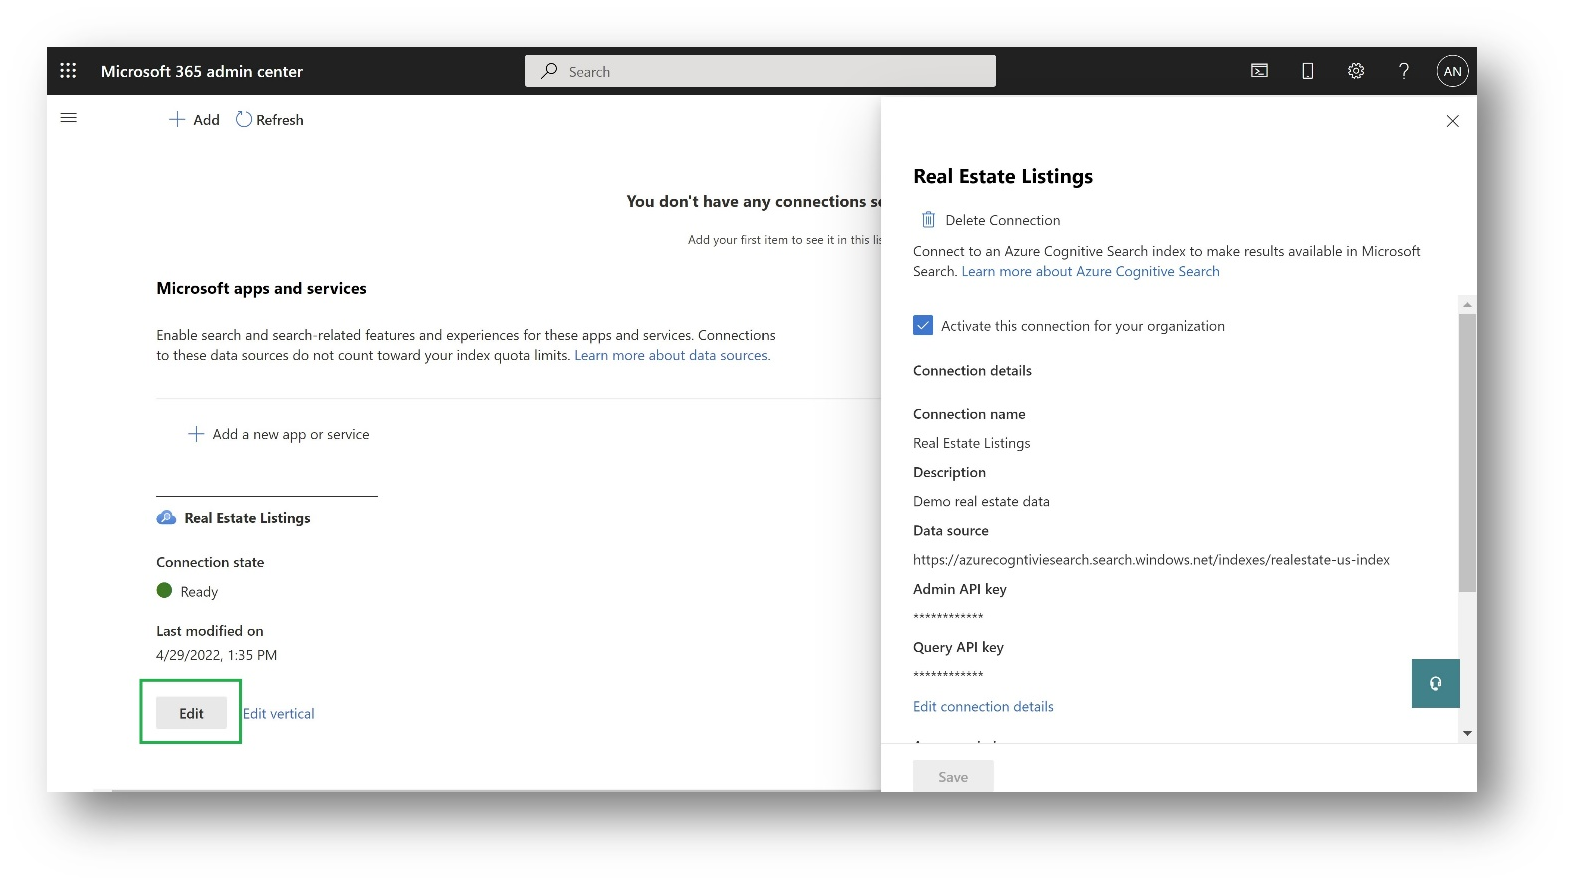
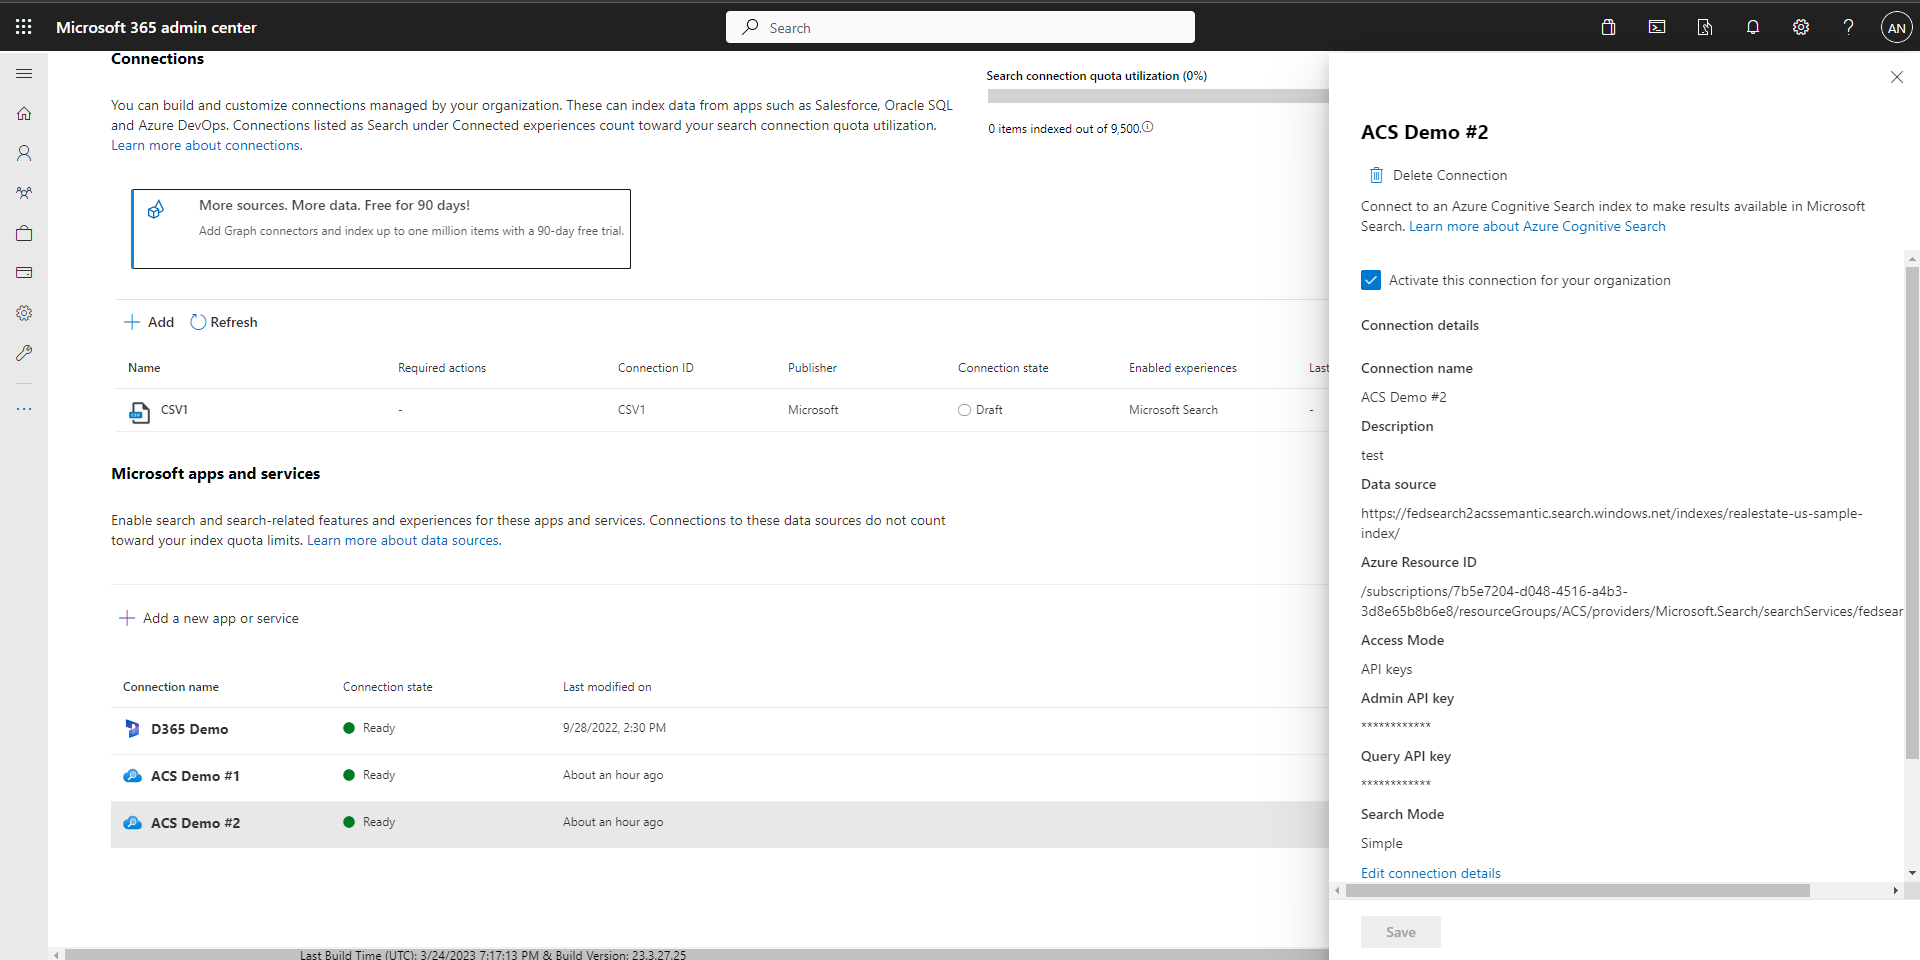
Initial commit - updating ACS federated search docs for V2 experience

diff --git a/MicrosoftSearch/manage-azure-cognitive-search.md b/MicrosoftSearch/manage-azure-cognitive-search.md
@@ -7,7 +7,7 @@ ms.audience: Admin
 ms.topic: article
 ms.service: mssearch
 ms.localizationpriority: medium
-ms.date: 06/03/2022
+ms.date: 03/27/2023
 
 description: "Manage how Azure Cognitive Search content appears in search results"
 ---
@@ -17,7 +17,7 @@ description: "Manage how Azure Cognitive Search content appears in search result
 
 * **Easy to use:** Users can easily and quickly find key information stored in Azure Cognitive Search (ACS), without needing to navigate to a new app or page.
 * **Easy to find:** ACS content is visible to users in Bing.com, Office.com, and SharePoint.
-* **Customizable permissions:** ACS results can be configured to appear for everyone in the organization or specific Azure AD access control lists.
+* **Customizable permissions:** ACS results can be configured to appear for everyone in the organization or refined to certain people using Azure Role-Based Access Control.
 * **Adaptable result layouts:** ACS results can be formatted with a default layout, based on your data’s schema, or can be customized using Modern Result Types.
 * **Quick setup:** Simple to configure and easy to maintain the search connection to an ACS index.
 * **Unified search experience:** To maintain a cohesive experience, ACS results are consistent across all search entry points. Wherever you search, you'll get the same results with the same look and feel.
@@ -38,33 +38,45 @@ Check out our Microsoft Build 2022 video for a demonstration.
 
 ## Setup
 
-1. In the [Microsoft 365 admin center](https://admin.microsoft.com), go to [Data sources](https://admin.microsoft.com/Adminportal/Home#/MicrosoftSearch/connectors).
-2. In the Microsoft apps and services section, select **Add a new app or service**. :::image type="content" alt-text="Data sources page with link to Add new app or service highlighted." source="media/azure-cognitive-search/acs-data-source.png" lightbox="media/azure-cognitive-search/acs-data-source.png":::
+1. Grant Reader permissions for the Bing app in the Azure Portal - this gives us permission to view the Azure Cognitive Search resource from Microsoft Search in Bing:
+    - Navigate to the [Azure Portal](https://portal.azure.com) and open your Azure Cognitive Search resource.
+    - Select **Access control (IAM) on the left sidebar**, then navigate to the **Role assignments** tab.
+    - Click **Add** in the top left corner, then **Add role assignment** from the dropdown.
+    - Choose the **Reader** role from the list, and click **Next**.
+    - On the following page, click on **Select members**, then in the search box which opens to the right, search for **Bing**.
+    - Click on **Bing** in the search results, and hit **Select**.
+    - Select **Review + assign**, then **Review + assign** again.
+2. In the [Microsoft 365 admin center](https://admin.microsoft.com), go to [Data sources](https://admin.microsoft.com/Adminportal/Home#/MicrosoftSearch/connectors). In the Microsoft apps and services section, select **Add a new app or service**. :::image type="content" alt-text="Data sources page with link to Add new app or service highlighted." source="media/azure-cognitive-search/acs-data-source.png" lightbox="media/azure-cognitive-search/acs-data-source.png":::
 3. Select **Azure Cognitive Search**, then **Next**.
-4. In the **Connection details** pane:
-
-    - Enter the connection name and description. The name will be used as the display name for the ACS vertical on Bing, Office.com, and SharePoint.
-    - In the Data source field, enter the URL for your ACS index, using the format `<your-service>.search.windows.net/indexes/<your-index>`. Replace `<your-service>` with the name of the search service resource, and `<your-index>` with the name of the index.
-    - Add your Admin and Query API keys. For information about finding or creating API keys, see [Find existing keys](/azure/search/search-security-api-keys#find-existing-keys).
-    - Select the authorization check box, then **Next**.
-
-5. On the **Search permissions** page, choose to enable the connection for everyone in your organization or restrict the results to certain Access Control Lists.
-6. In the **Add semantic property labels** pane:
-
+4. In the **Connection details** pane, enter the connection name and description. The name will be used as the display name for the ACS vertical on Bing, Office.com, and SharePoint.
+5. In the Data source field, enter the URL for your ACS index, using the format `<your-service>.search.windows.net/indexes/<your-index>`. Replace `<your-service>` with the name of the search service resource, and `<your-index>` with the name of the index.
+6. In the Azure resource ID field, add the Resource ID for your ACS index. This can be found in the Azure Portal with the following steps:
+    - Open your ACS resource in the [Azure Portal](https://portal.azure.com)
+    - Select the **Properties** tab, and copy the Id under the **Essentials** heading
+7. Choose whether you want to connect to your ACS index using API key authentication or Azure Role-Based Access control. **Note:** if you select API Keys, the connected index will be visible to all Microsoft Search users in your organization. For more information on Role-Based Access control, see: [RBAC Search Security](/azure/search/search-security-rbac).
+    - If you select API Key authentication, enter your Admin and Query API keys. For information about finding or creating API keys, see [Find existing keys](/azure/search/search-security-api-keys#find-existing-keys).
+8. Choose whether you want queries on your ACS content from Microsoft Search to use Semantic Search or Simple Search. If you want to use Semantic Seach, you will need to have it enabled for your ACS service. These queries will use your ACS semantic query quota and could incur additional costs through Azure Billing. For more details on Semantic Search, see [Semantic Search Overview](/azure/search/semantic-search-overview).
+9. Read and select the authorization check boxes, then test your setup with the **Test connection** button. Fix any errors, then select **Next**.
+10. In the **Add semantic property labels** pane:
     - If these labels are sufficient to display the results, select the source properties you’d like to display for each of the listed labels. The selected properties will be used to create a default Modern Result Type (MRT) for the results. You must select a property for the Title. The others are optional but recommended, since they make the results more informative.
     - If these labels aren't adequate to display your results, you can leave them blank and create a custom MRT later. For information about creating a custom MRT, see [Manage result types](/microsoftsearch/manage-result-types).
+11. Verify the information entered is correct and select **Finish**.
+12. When the connection has been created, you'll be redirected to the Data Sources page again. You should see your newly created connection with the status **Ready**. :::image type="content" alt-text="Azure Cognitive Search connection successfully created" source="media/azure-cognitive-search/acs-custom-vertical.png" lightbox="media/azure-cognitive-search/acs-custom-vertical.png":::
+13. You can create up to three ACS connections per tenant - repeat the above steps for additional connections you want to create. 
 
-7. Verify the information entered is correct and select **Finish**.
-1. When the connection has been created, you'll be redirected to the Data Sources page again. If you want to change the display name that appears on the ACS vertical, select **Edit vertical** below the newly created ACS connection. :::image type="content" alt-text="Azure Cognitive Search connection with link to Edit vertical name." source="media/azure-cognitive-search/acs-custom-vertical.png" lightbox="media/azure-cognitive-search/acs-custom-vertical.png":::
-
-For more information about verticals, see [Manage search verticals](/microsoftsearch/manage-verticals). After successfully configuring an ACS connection, you should see the connection state Ready.
+> [!TIP]
+> To clarify the type of content users can find in the search vertical, we recommend updating the vertical name.To customize the name of your vertical, navigate to the **Customizations** tab, select **Verticals** in the left sidebar and choose your newly created vertical. For more information, see [Manage search verticals](/microsoftsearch/manage-verticals).
 
 > [!NOTE]
 > After the connection is enabled, it may take up to 24 hours for your new vertical and ACS results to appear in your Microsoft Search endpoints because of caching at various layers of the system.
 
 ## Query patterns
 
-Searching ACS results in Microsoft Search supports simple query syntax. This includes Keyword Query Language, AND, OR, and NOT operators. For more information, see [Simple query syntax in Azure Cognitive Search](/azure/search/query-simple-syntax). To adjust which data fields are searchable, you can [modify the field attributes for your ACS index](/azure/search/search-what-is-an-index#field-attributes).
+Two forms of query syntax are supported for ACS results in Microsoft Search: simple search and semantic search. You can select the query mode for your connection during setup.
+
+Simple Query Syntax includes Keyword Query Language, AND, OR, and NOT operators. For more information, see [Simple query syntax in Azure Cognitive Search](/azure/search/query-simple-syntax). To adjust which data fields are searchable, you can [modify the field attributes for your ACS index](/azure/search/search-what-is-an-index#field-attributes).
+
+Semantic search uses semantic ranking to find context and relatedness among terms, as well as language understanding to create summarizations within your content. For more details, see [Semantic Search Overview](https://learn.microsoft.com/en-us/azure/search/semantic-search-overview).
 
 ## Customize result types
 
@@ -72,16 +84,14 @@ To alter the way your ACS results are formatted, for example, layout or the fiel
 
 ## Edit the connection
 
-After enabling the connection, you can modify the endpoint and connection name. In [Data sources](https://admin.microsoft.com/Adminportal/Home#/MicrosoftSearch/connectors), below the configured connection, select Edit to make changes.  :::image type="content" alt-text="Azure Cognitive Search connection and pane with connection details." source="media/azure-cognitive-search/acs-edit-settings.png" lightbox="media/azure-cognitive-search/acs-edit-settings.png":::
+After enabling the connection, you can modify the endpoint and connection name. In [Data sources](https://admin.microsoft.com/Adminportal/Home#/MicrosoftSearch/connectors), select the configured connection to make changes.  :::image type="content" alt-text="Azure Cognitive Search connection and pane with connection details." source="media/azure-cognitive-search/acs-edit-settings.png" lightbox="media/azure-cognitive-search/acs-edit-settings.png":::
 
 To deactivate the connection, clear the **Activate this connection for your organization** check box and **Save**.
 
 ## Troubleshooting
 
-If any of the fields in your Modern Result Type for a particular result are blank, the field name will appear in curly braces.
+ - <TODO> You try to do RBAC but the search admin doesn't have permissions
 
-:::image type="content" alt-text="ACS vertical with example fields 1 and 2 in curly braces." source="media/azure-cognitive-search/acs-result-troubleshooting.png" lightbox="media/azure-cognitive-search/acs-result-troubleshooting.png":::
 
-To mitigate this issue, create a custom MRT and add this line: `"$when": "${exampleFieldName != null && exampleFieldName != ''}"` and replace `exampleFieldName` with the proper field name. Do this for any of the fields in the MRT that can be empty.
 
 If you have feedback or questions when using the preview connector, [contact us](https://aka.ms/ACSConnectorFeedback).
